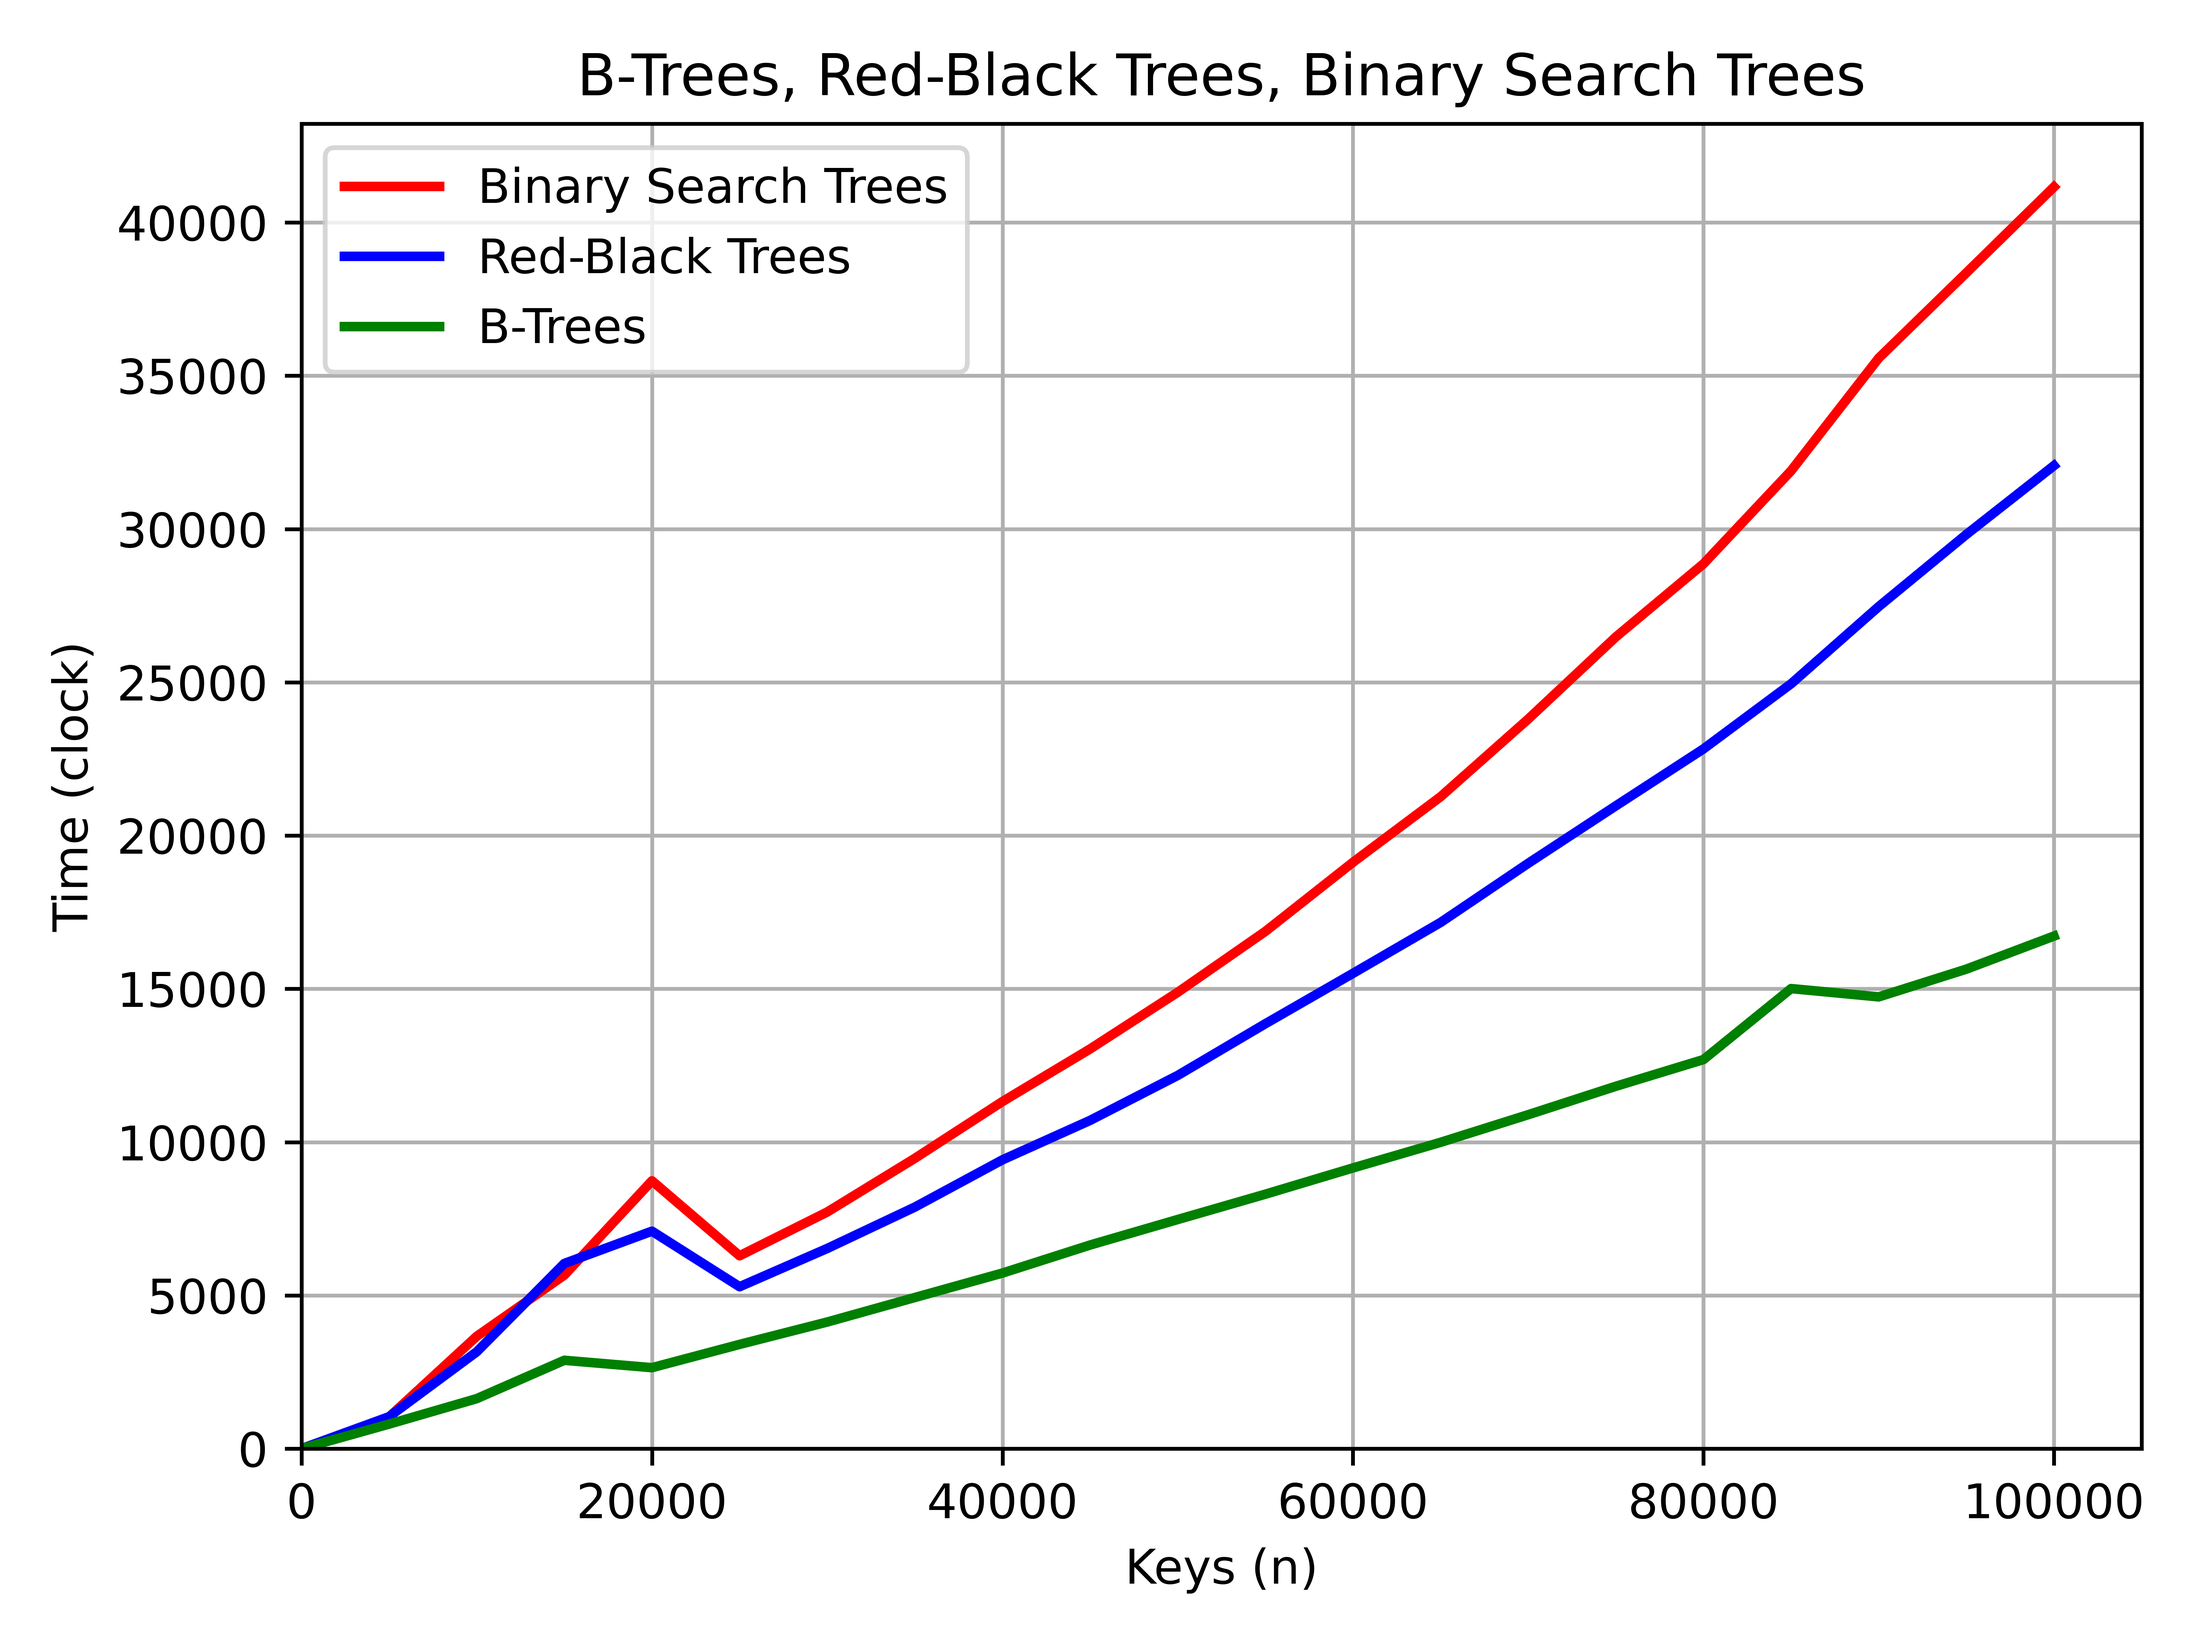
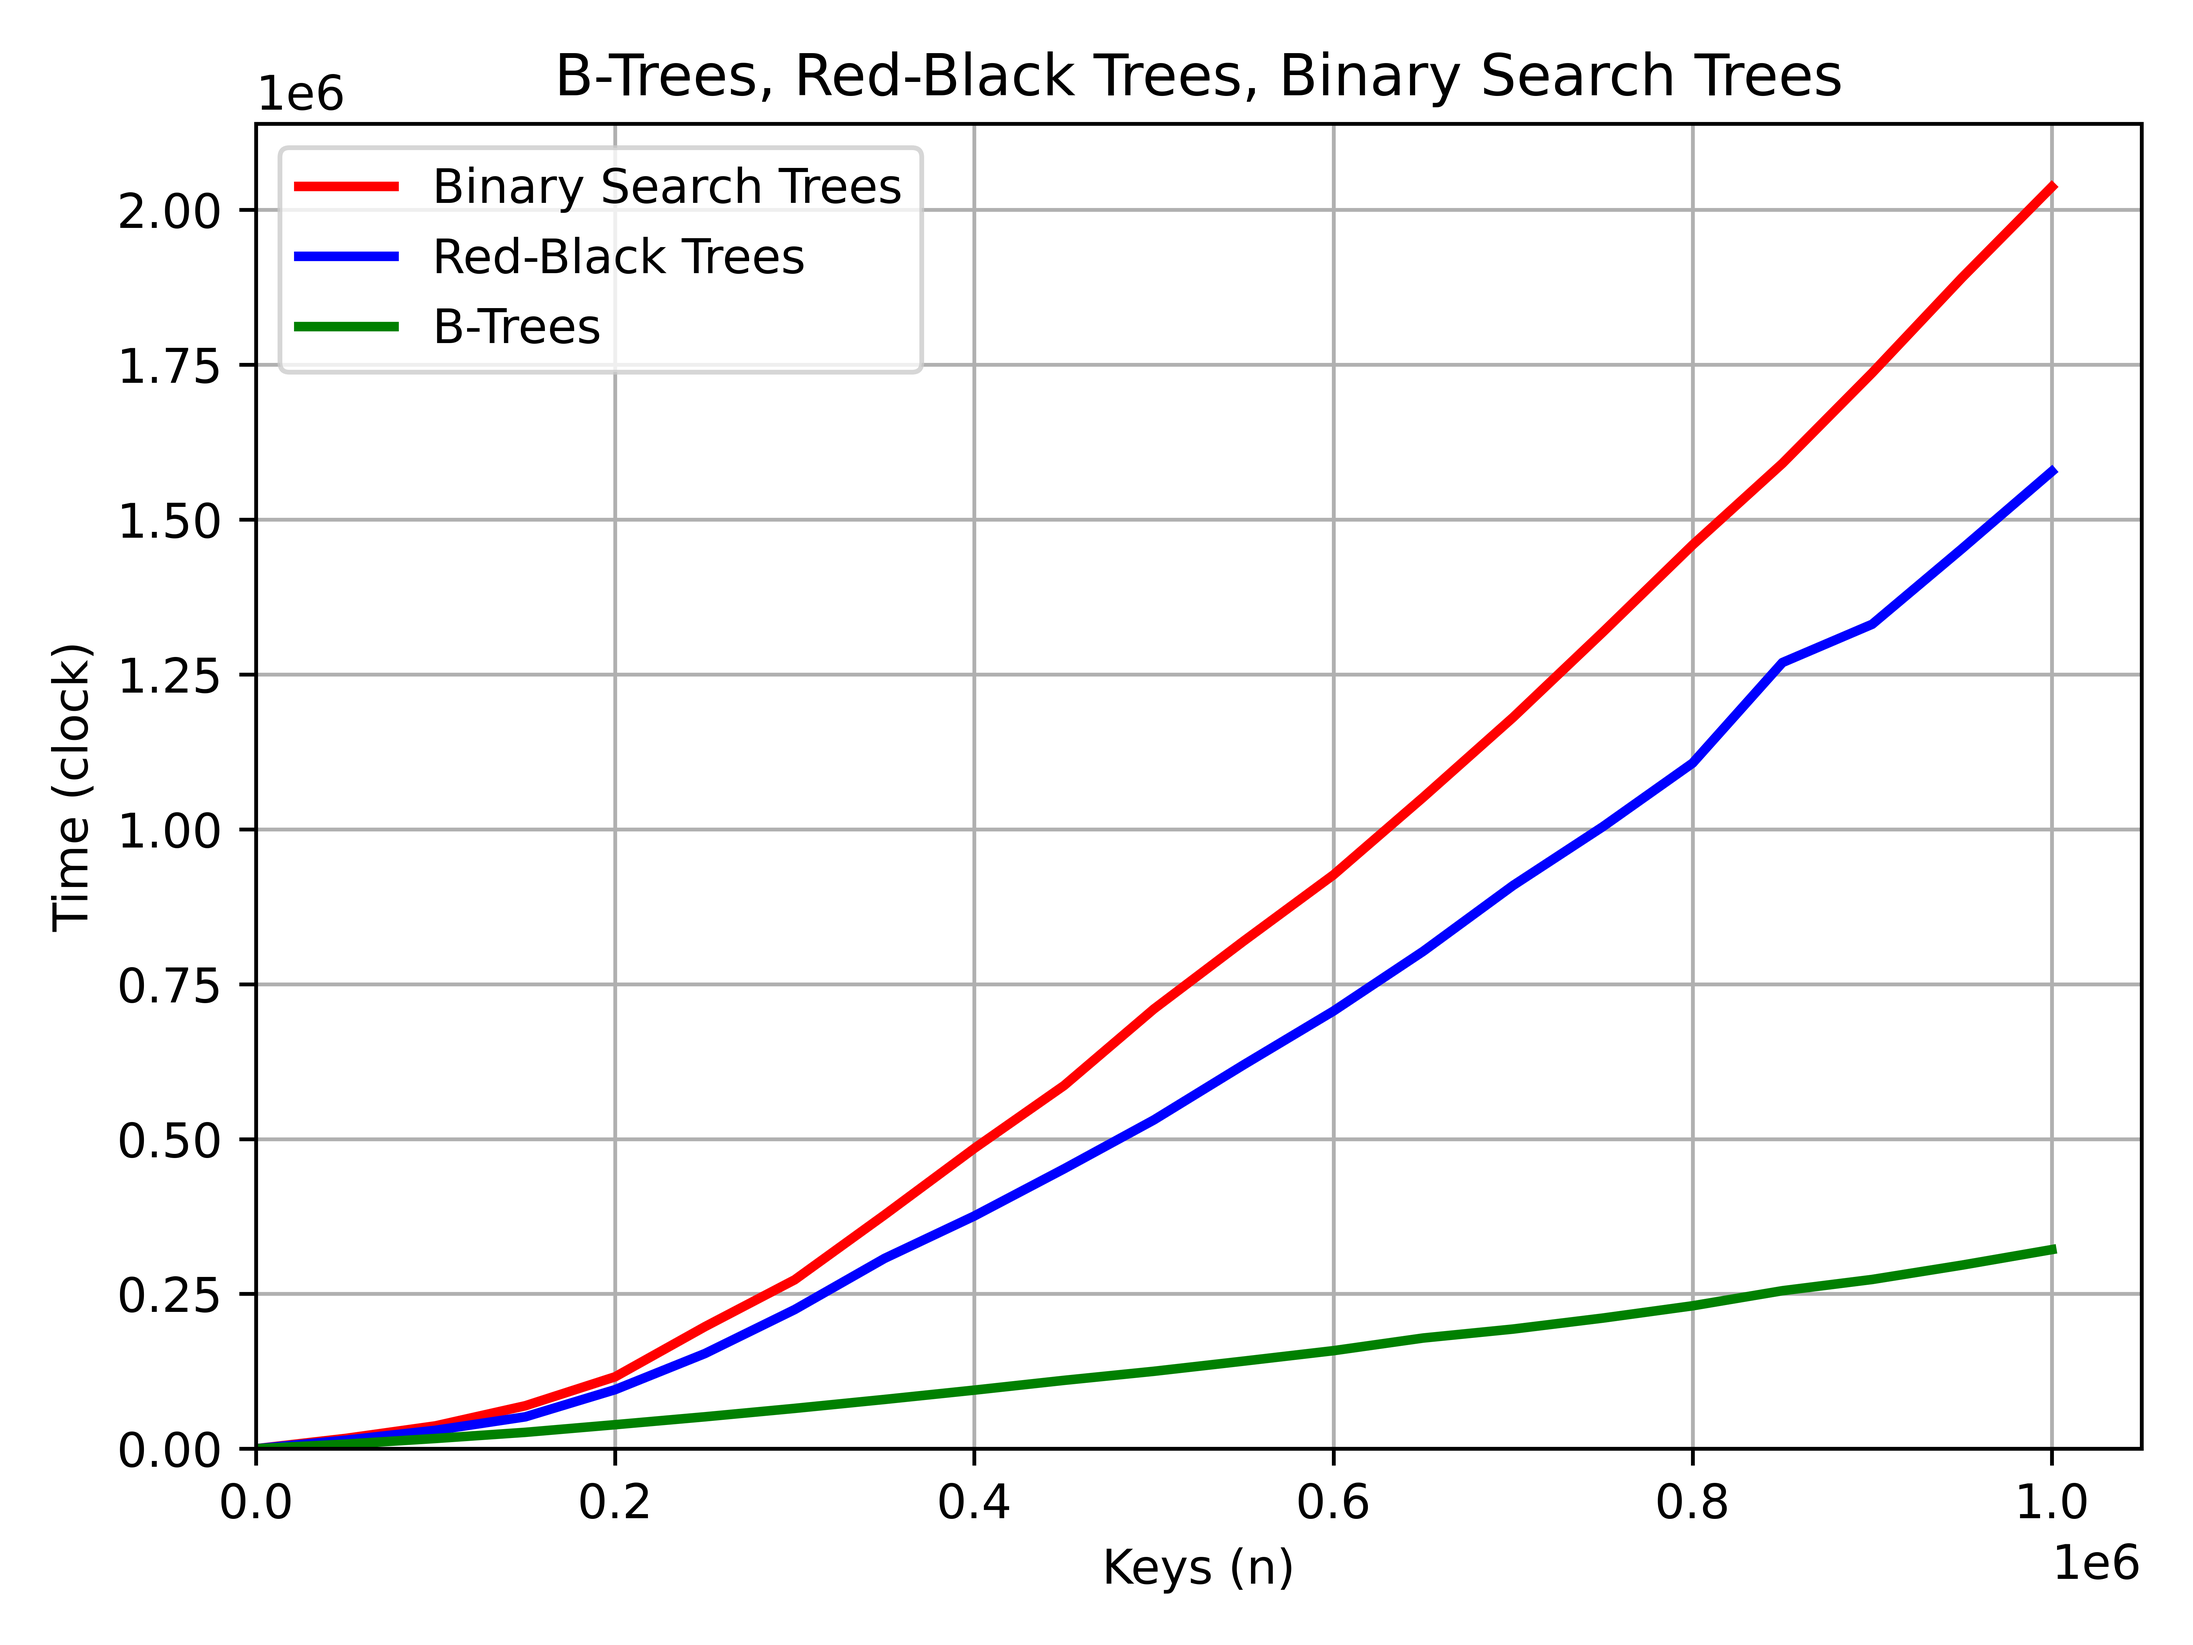
exp 3

diff --git a/src/main.c b/src/main.c
@@ -50,9 +50,9 @@ int main(int argc, char *argv[]) {
     /* Lab. 3 configurations */
     Configuration lab3_conf;
     lab3_conf.min_keys = 0; // minimum number of keys in the tree
-    lab3_conf.max_keys = 100000; // maximum number of keys in the tree
-    lab3_conf.max_instances = 50; // how many times to repeat the same test
-    lab3_conf.step = 5000; // the amount of keys will grow this much at each test
+    lab3_conf.max_keys = 1000000; // maximum number of keys in the tree
+    lab3_conf.max_instances = 10; // how many times to repeat the same test
+    lab3_conf.step = 50000; // the amount of keys will grow this much at each test
     lab3_conf.search_delete_ratio = 60; // ratio of insertions/deletions
     lab3_conf.seed = 10; // srand()'s starting seed
     lab3_conf.t = 50; // try with 1000 to show the difference
